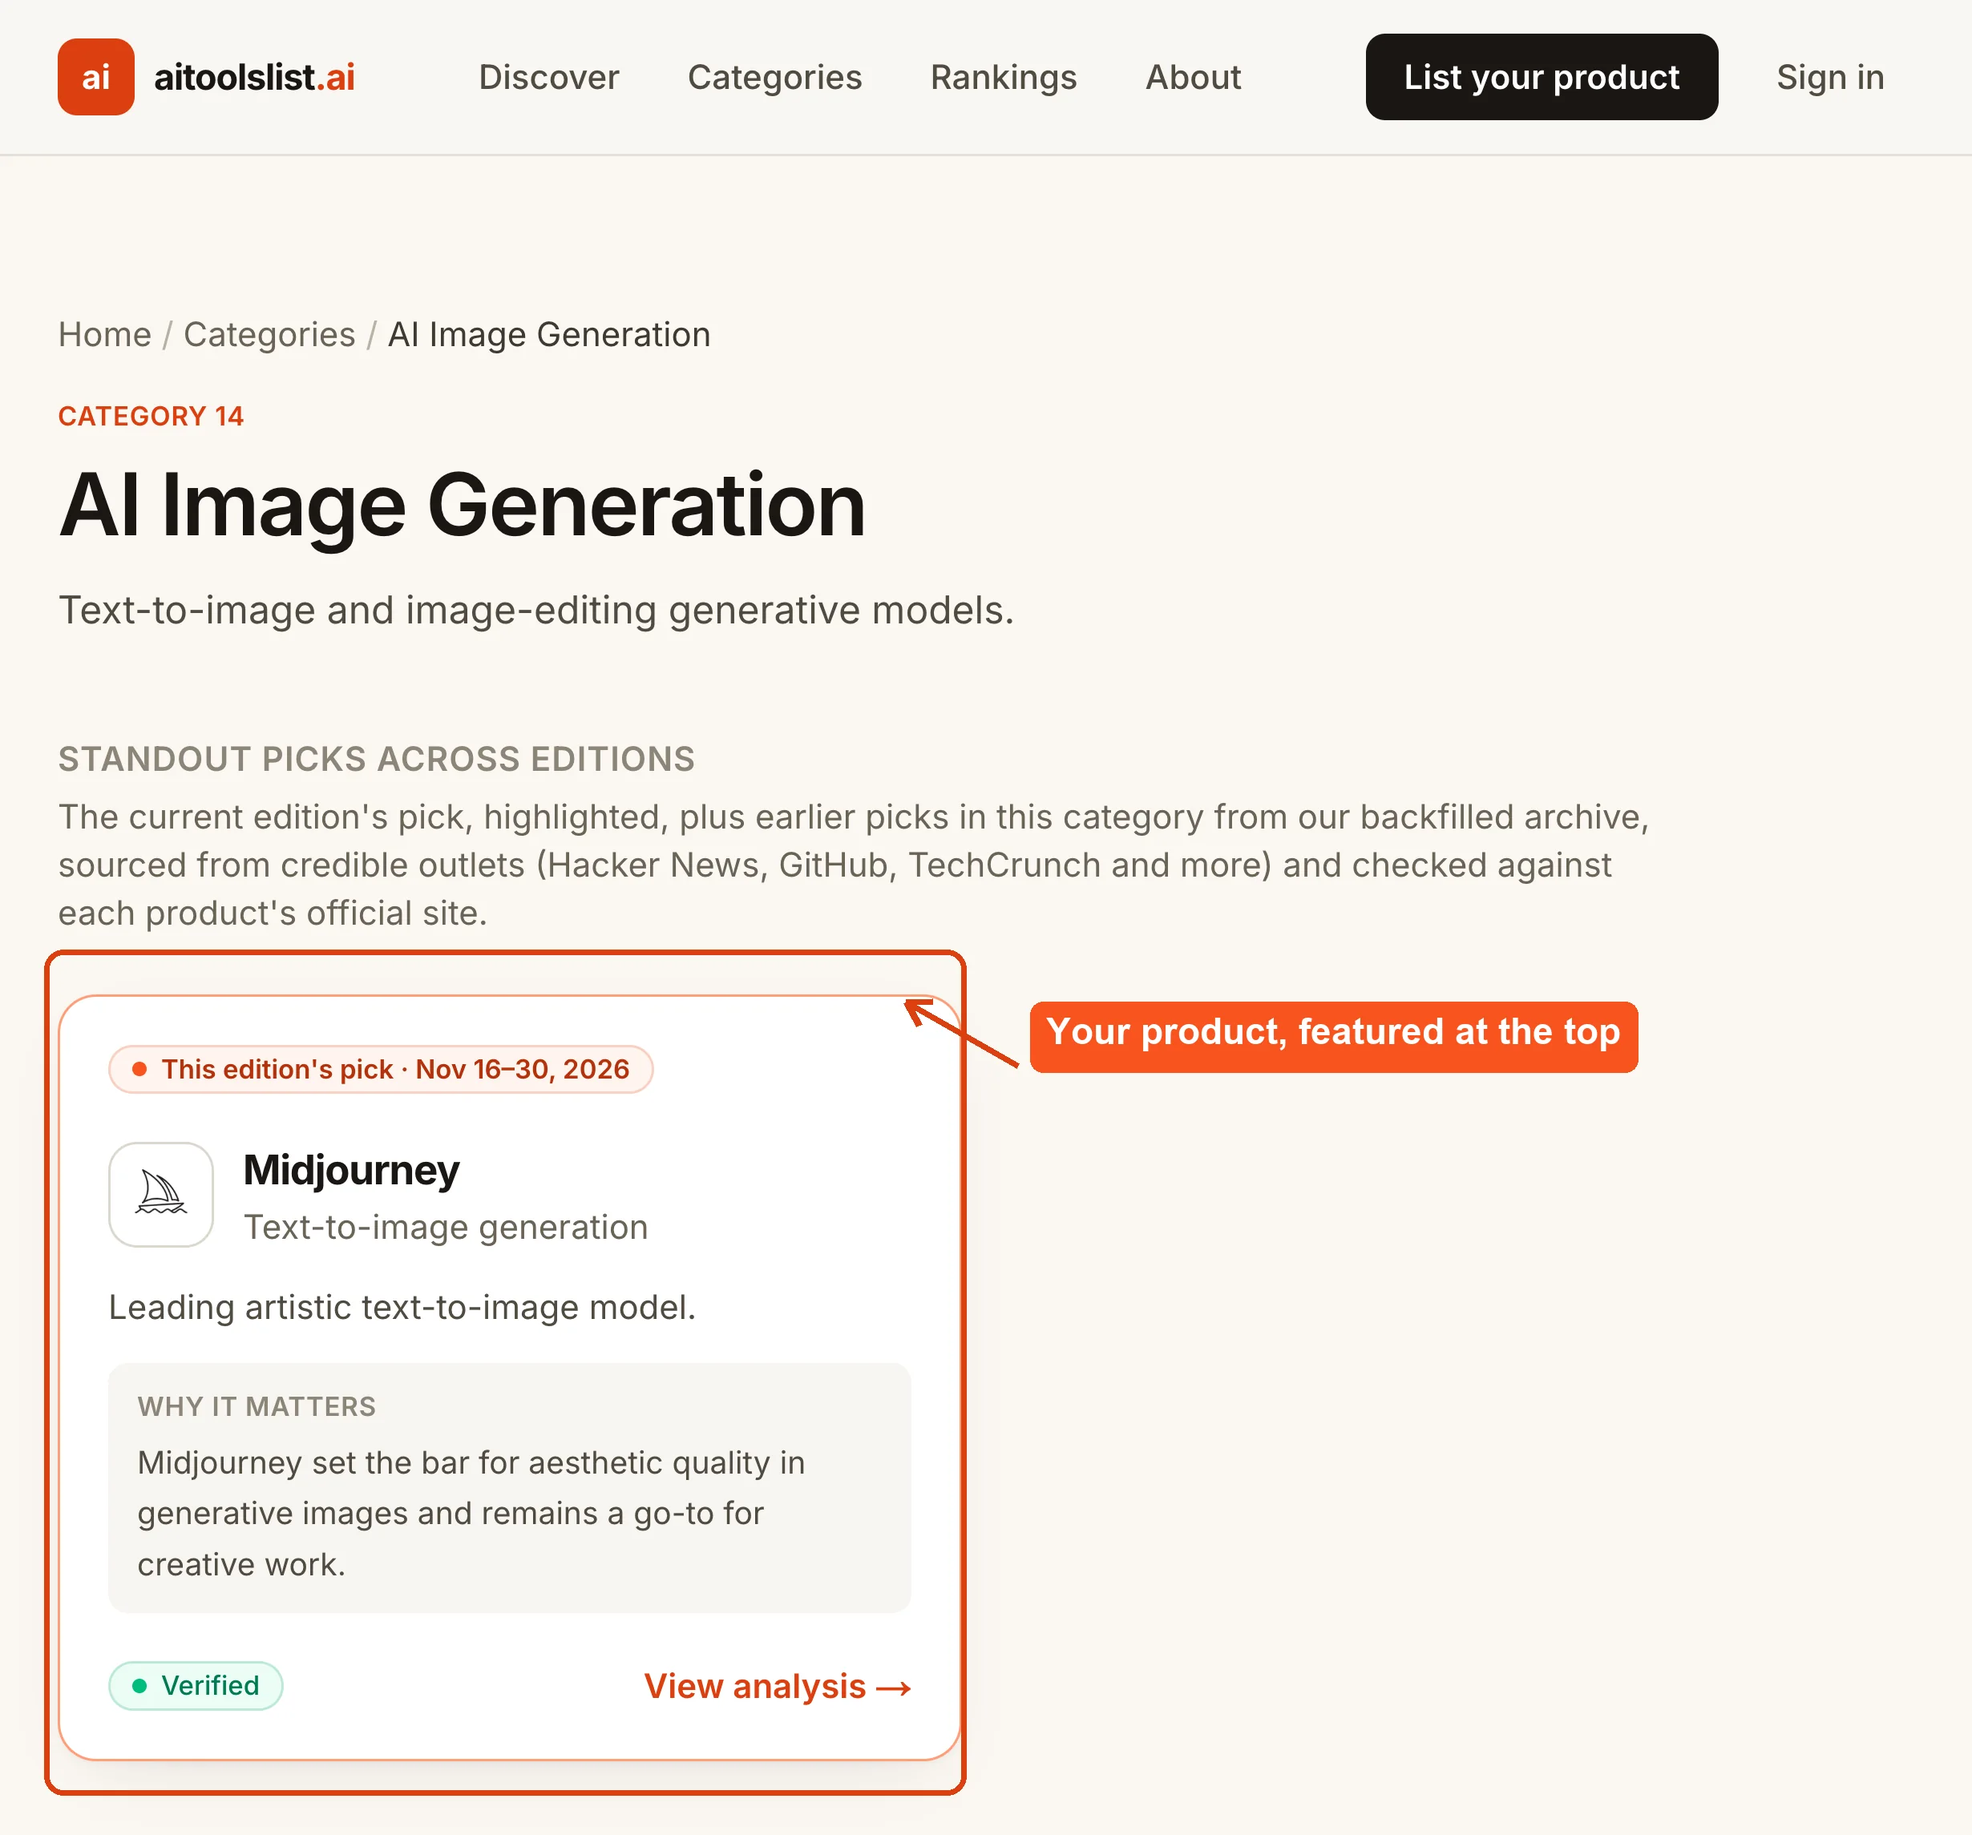
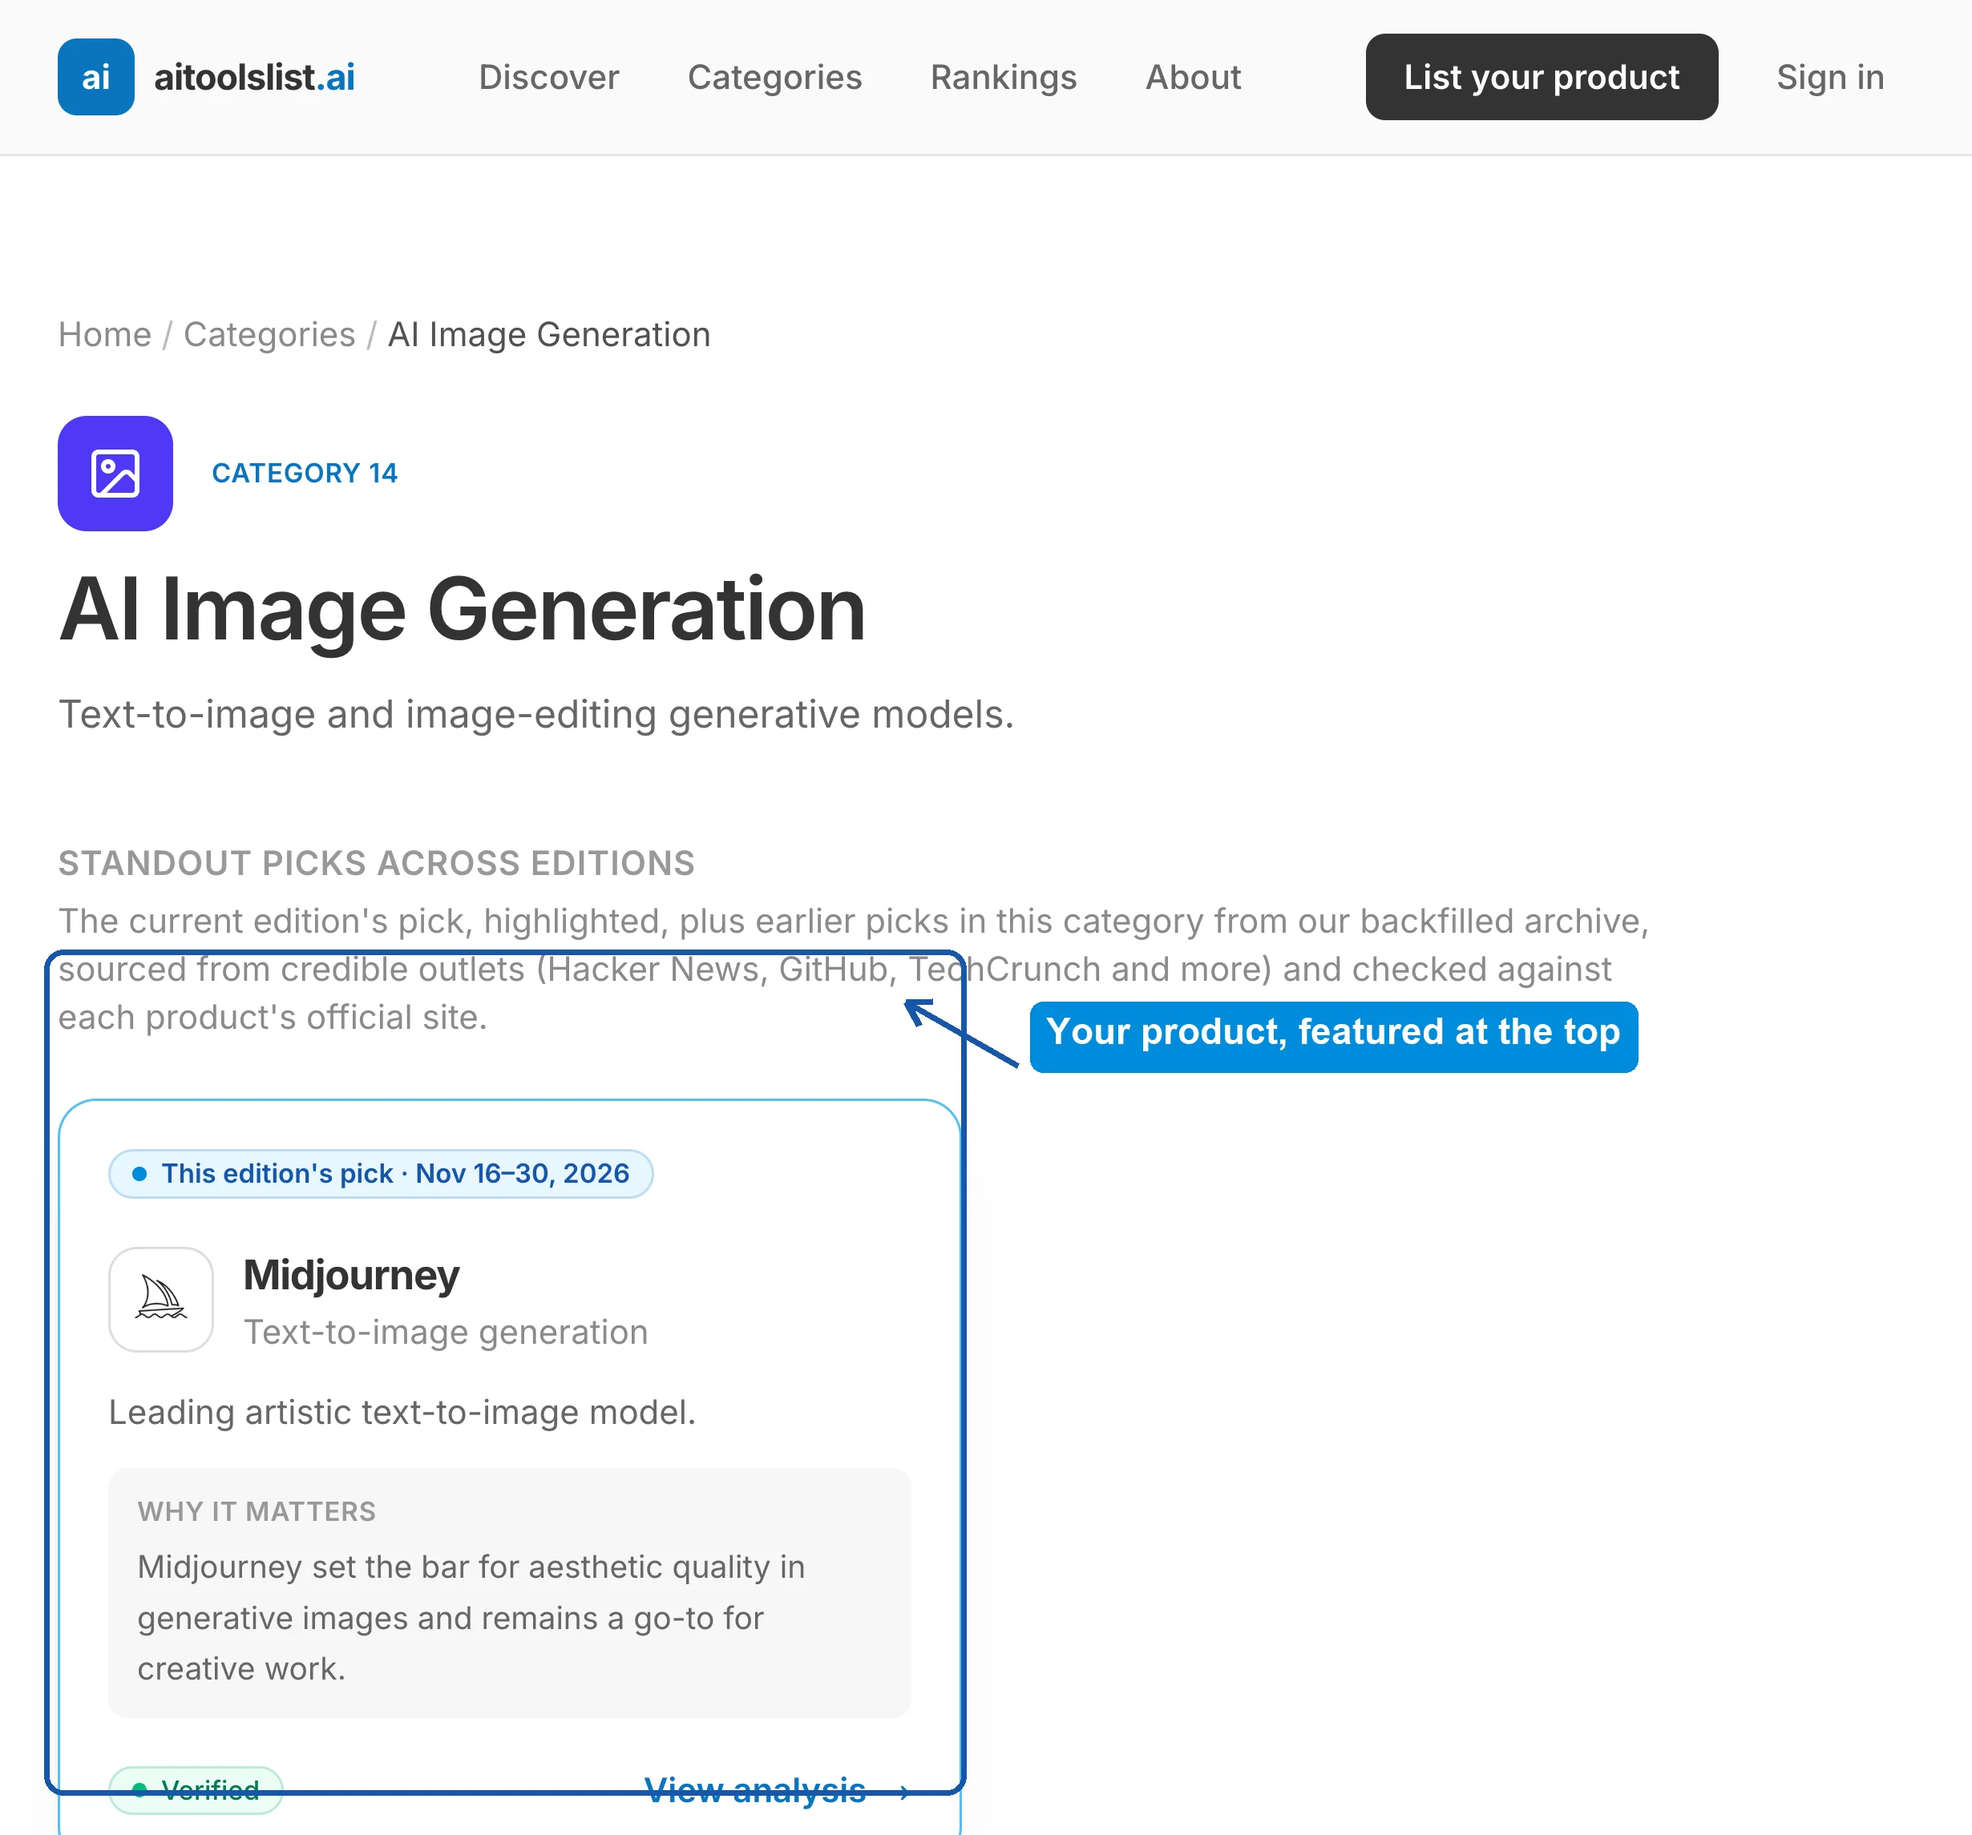
Regenerate submit-tool screenshots for the blue design system
The /submit-tool benefit screenshots were captured under the old coral
theme and clashed with the current blue design. Recolour the annotation
brand (coral → #008BDC / #1757AA) and recapture the product and category
pages from the live site.

diff --git a/scripts/gen-screenshots.py b/scripts/gen-screenshots.py
@@ -28,8 +28,8 @@ from PIL import Image, ImageDraw, ImageFont
 
 BASE_URL = os.environ.get("BASE_URL", "https://aitoolslist.ai").rstrip("/")
 OUT_DIR = os.path.join(os.path.dirname(__file__), "..", "public", "screens")
-BRAND = (248, 84, 31)
-BRAND6 = (220, 63, 16)
+BRAND = (0, 139, 220)    # #008BDC — Internshala-style primary blue
+BRAND6 = (23, 87, 170)   # #1757AA — darker blue for outlines/arrows
 
 FONT_CANDIDATES = [
     "/System/Library/Fonts/Supplemental/Arial Bold.ttf",       # macOS
